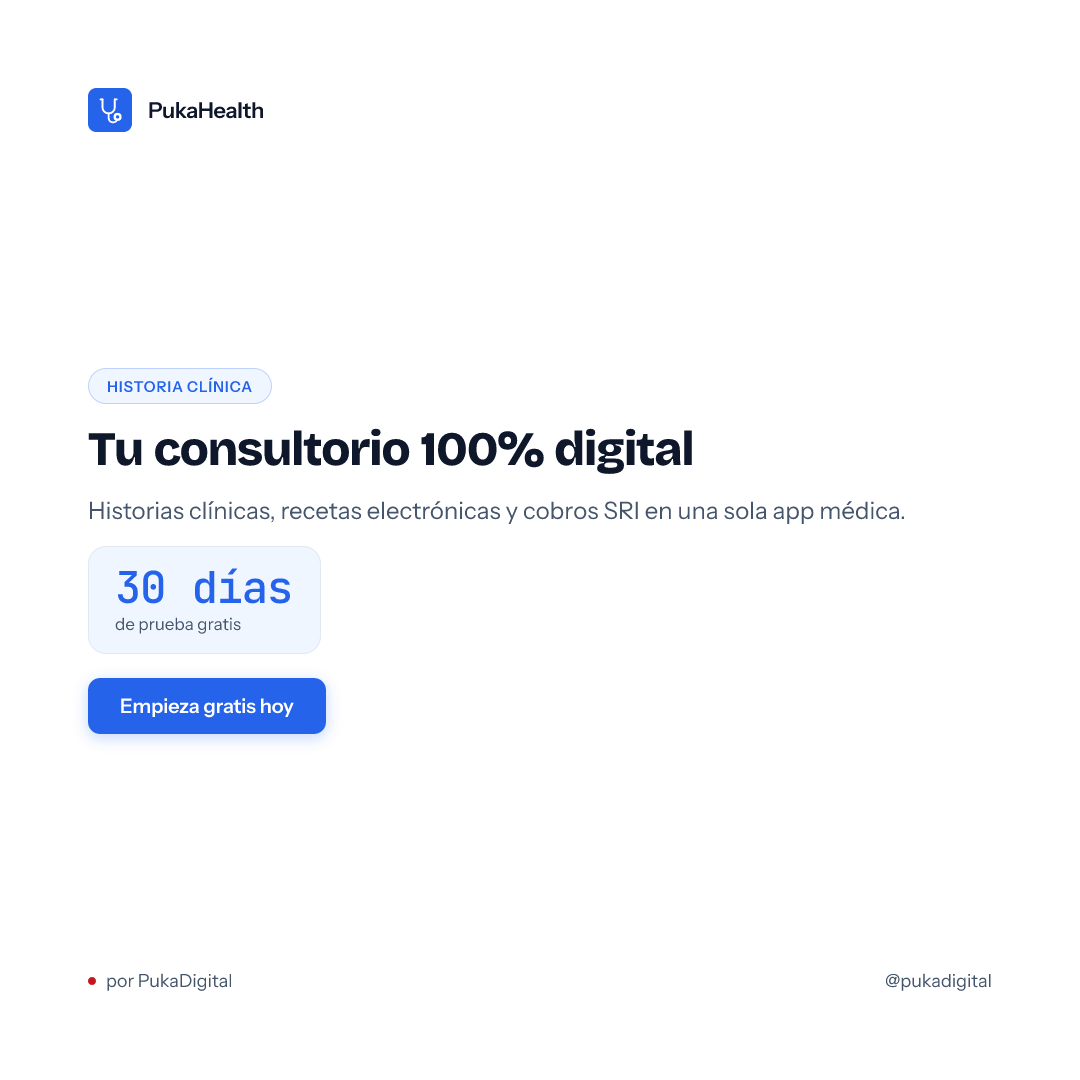
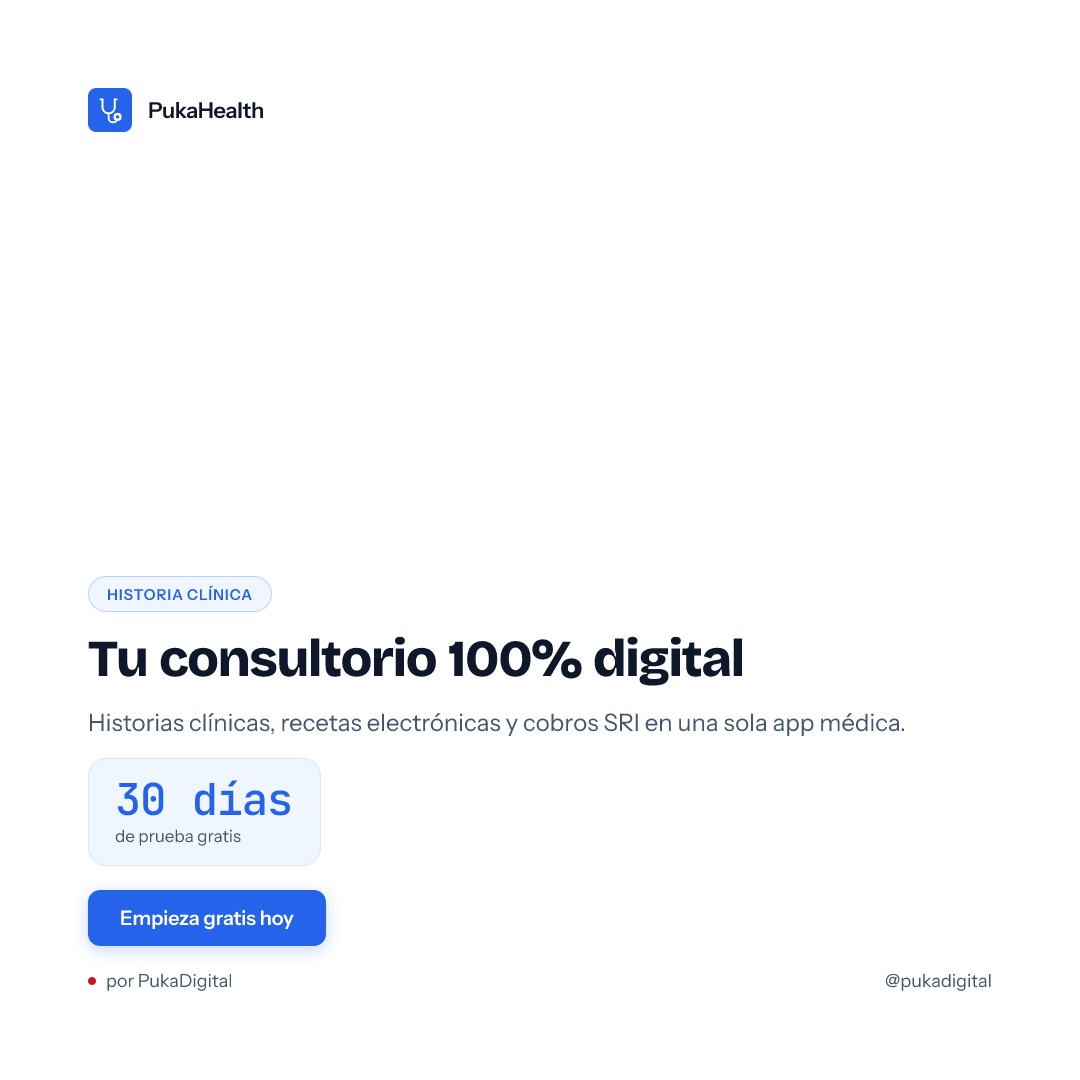
fix(piezas): recomponer la historia 9x16 y ejercitar el carrusel
El hueco de la historia no venia del formato. La altura util es identica en los
dos (1174 px: 1350-176 y 1920-250-320-176); lo que repartia el sobrante en tres
huecos era el 'space-between' del contenedor, en todos los formatos. El cuerpo
pasa a anclarse abajo, y en 9x16 la cabecera se agrupa con el, de modo que el
vacio queda arriba, donde vive la UI de Instagram y el pulgar.

El titular de 9x16 era ademas mas pequeno que el de 4x5 teniendo el mismo ancho
util y viendose a pantalla completa. Invertido: 9x16 va por encima de 4x5, y
1x1 por debajo, que es el unico con menos alto util.

Se anade un carrusel de tres slides a las muestras: el camino indice/total no
estaba ejercitado. Sale solo en 4x5, como manda formatosDe, con el contador en
la cabecera y el CTA unicamente en la ultima slide.

diff --git a/lib/piezas/muestra.ts b/lib/piezas/muestra.ts
@@ -3,7 +3,7 @@ import { join } from 'node:path';
 import satori from 'satori';
 import { Resvg } from '@resvg/resvg-js';
 import { cargarFuentes } from './fuentes.ts';
-import { FORMATOS } from './formatos.ts';
+import { FORMATOS, formatosDe } from './formatos.ts';
 import { sistemas } from './sistemas.ts';
 import { Plantilla } from './plantilla.tsx';
 import { validar } from './validar.ts';
@@ -33,6 +33,32 @@ const SLIDE_HEALTH: Slide = {
   cta: 'Empieza gratis hoy',
 };
 
+/**
+ * Carrusel de tres slides. Ejercita el contador indice/total y la regla de que
+ * el CTA solo aparece en la ultima. Sale solo en 4x5, como manda formatosDe.
+ */
+const CARRUSEL: Pieza = {
+  id: 'muestra-carrusel',
+  sistema: 'puka',
+  producto: 'pukaia',
+  slides: [
+    {
+      badge: 'WHATSAPP',
+      titular: 'Tres ventas que perdiste ayer',
+      bajada: 'El 78% de los clientes escribe fuera de horario de oficina.',
+    },
+    {
+      titular: 'Contesta mientras duermes',
+      bajada: 'El agente responde, califica y agenda. Tu revisas por la manana.',
+    },
+    {
+      titular: 'Un CRM, no un chatbot',
+      dato: { valor: '$14.99', etiqueta: 'al mes' },
+      cta: 'Escribenos',
+    },
+  ],
+};
+
 const SISTEMAS_LIST: Sistema[] = ['puka', 'health'];
 const FORMATOS_LIST: Formato[] = ['4x5', '1x1', '9x16'];
 
@@ -55,6 +81,7 @@ async function main() {
       formatos: FORMATOS_LIST,
       slides: [SLIDE_HEALTH],
     },
+    CARRUSEL,
   ];
 
   const errores = validar(piezasParaValidar);
@@ -113,6 +140,37 @@ async function main() {
       const rutaArchivo = join(dirSalida, nombreArchivo);
       writeFileSync(rutaArchivo, pngBuffer);
 
+      console.log(`  ✔ Guardado en: public/piezas/muestra/${nombreArchivo}`);
+    }
+  }
+
+  // 5. Renderizar el carrusel: una imagen por slide, con su contador.
+  const formatoCarrusel = formatosDe(CARRUSEL);
+  const totalSlides = CARRUSEL.slides.length;
+  console.log(`🎠 Carrusel de ${totalSlides} slides en [${formatoCarrusel.join(', ')}]...`);
+
+  for (const formato of formatoCarrusel) {
+    const { ancho, alto } = FORMATOS[formato];
+
+    for (const [i, slide] of CARRUSEL.slides.entries()) {
+      const indice = i + 1;
+      const jsx = Plantilla({
+        slide,
+        tokens: sistemas[CARRUSEL.sistema],
+        formato,
+        indice,
+        total: totalSlides,
+      });
+
+      const svg = await satori(jsx, { width: ancho, height: alto, fonts });
+      const pngBuffer = new Resvg(svg, {
+        fitTo: { mode: 'width', value: ancho },
+      })
+        .render()
+        .asPng();
+
+      const nombreArchivo = `carrusel-${indice}-${formato}.png`;
+      writeFileSync(join(dirSalida, nombreArchivo), pngBuffer);
       console.log(`  ✔ Guardado en: public/piezas/muestra/${nombreArchivo}`);
     }
   }

diff --git a/lib/piezas/plantilla.tsx b/lib/piezas/plantilla.tsx
@@ -52,12 +52,14 @@ export function Plantilla({
 
   let titularSize = 66;
   if (formato === '1x1') {
-    titularSize = totalSlots >= 3 ? 48 : totalSlots >= 1 ? 54 : 62;
+    // El unico formato con menos alto util: 904 px frente a 1174.
+    titularSize = totalSlots >= 3 ? 52 : totalSlots >= 1 ? 58 : 66;
   } else if (formato === '9x16') {
-    titularSize = totalSlots >= 3 ? 54 : totalSlots >= 1 ? 60 : 68;
+    // Misma altura util que 4x5 y se ve a pantalla completa: mas cuerpo.
+    titularSize = totalSlots >= 3 ? 68 : totalSlots >= 1 ? 74 : 82;
   } else {
     // 4x5
-    titularSize = totalSlots >= 3 ? 56 : totalSlots >= 1 ? 62 : 70;
+    titularSize = totalSlots >= 3 ? 62 : totalSlots >= 1 ? 68 : 76;
   }
 
   const logoUri = esPuka ? LOGO_PEGASO : LOGO_HEALTH;
@@ -108,6 +110,8 @@ export function Plantilla({
           justifyContent: 'space-between',
           alignItems: 'center',
           width: '100%',
+          // La historia agrupa cabecera y cuerpo abajo en vez de repartirlos.
+          ...(formato === '9x16' ? { marginTop: 'auto', marginBottom: 56 } : {}),
         }}
       >
         <div
@@ -163,11 +167,11 @@ export function Plantilla({
         style={{
           display: 'flex',
           flexDirection: 'column',
-          justifyContent: 'center',
-          flex: 1,
+          justifyContent: 'flex-end',
+          flex: formato === '9x16' ? 'none' : 1,
           gap: formato === '1x1' ? 18 : 24,
           marginTop: 20,
-          marginBottom: 20,
+          marginBottom: formato === '1x1' ? 24 : 48,
         }}
       >
         {/* Slot: Badge */}
